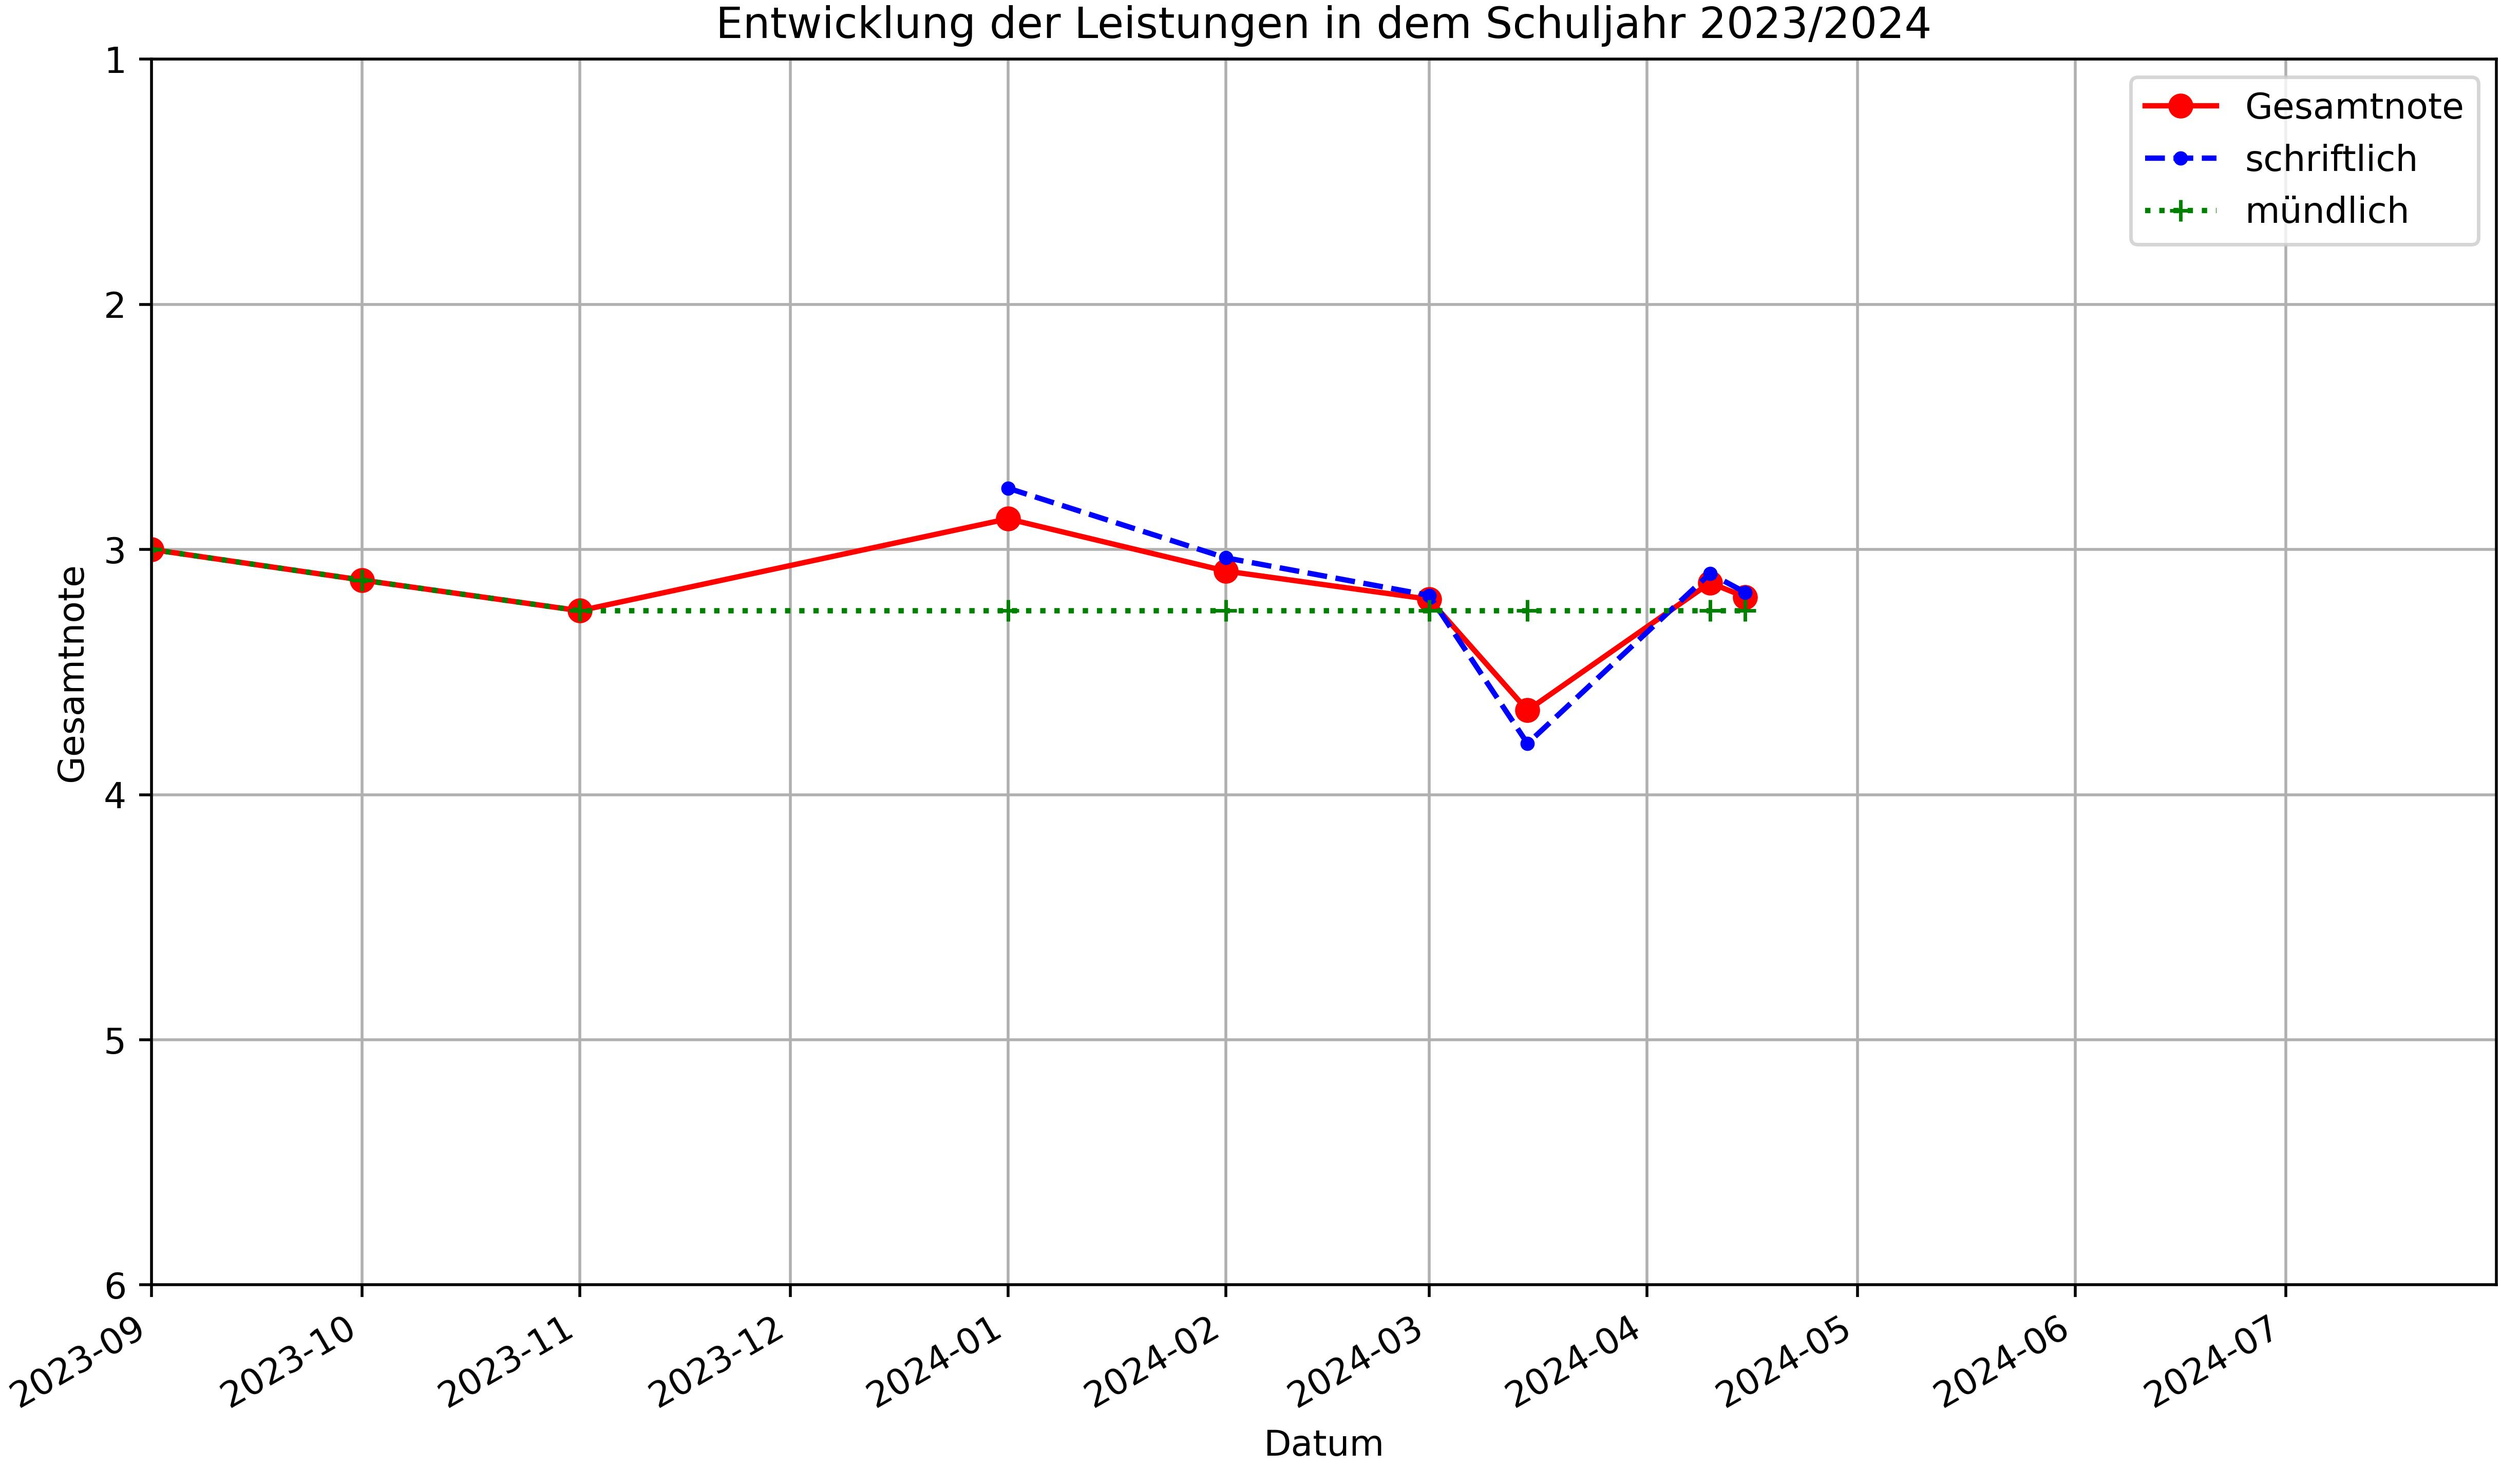
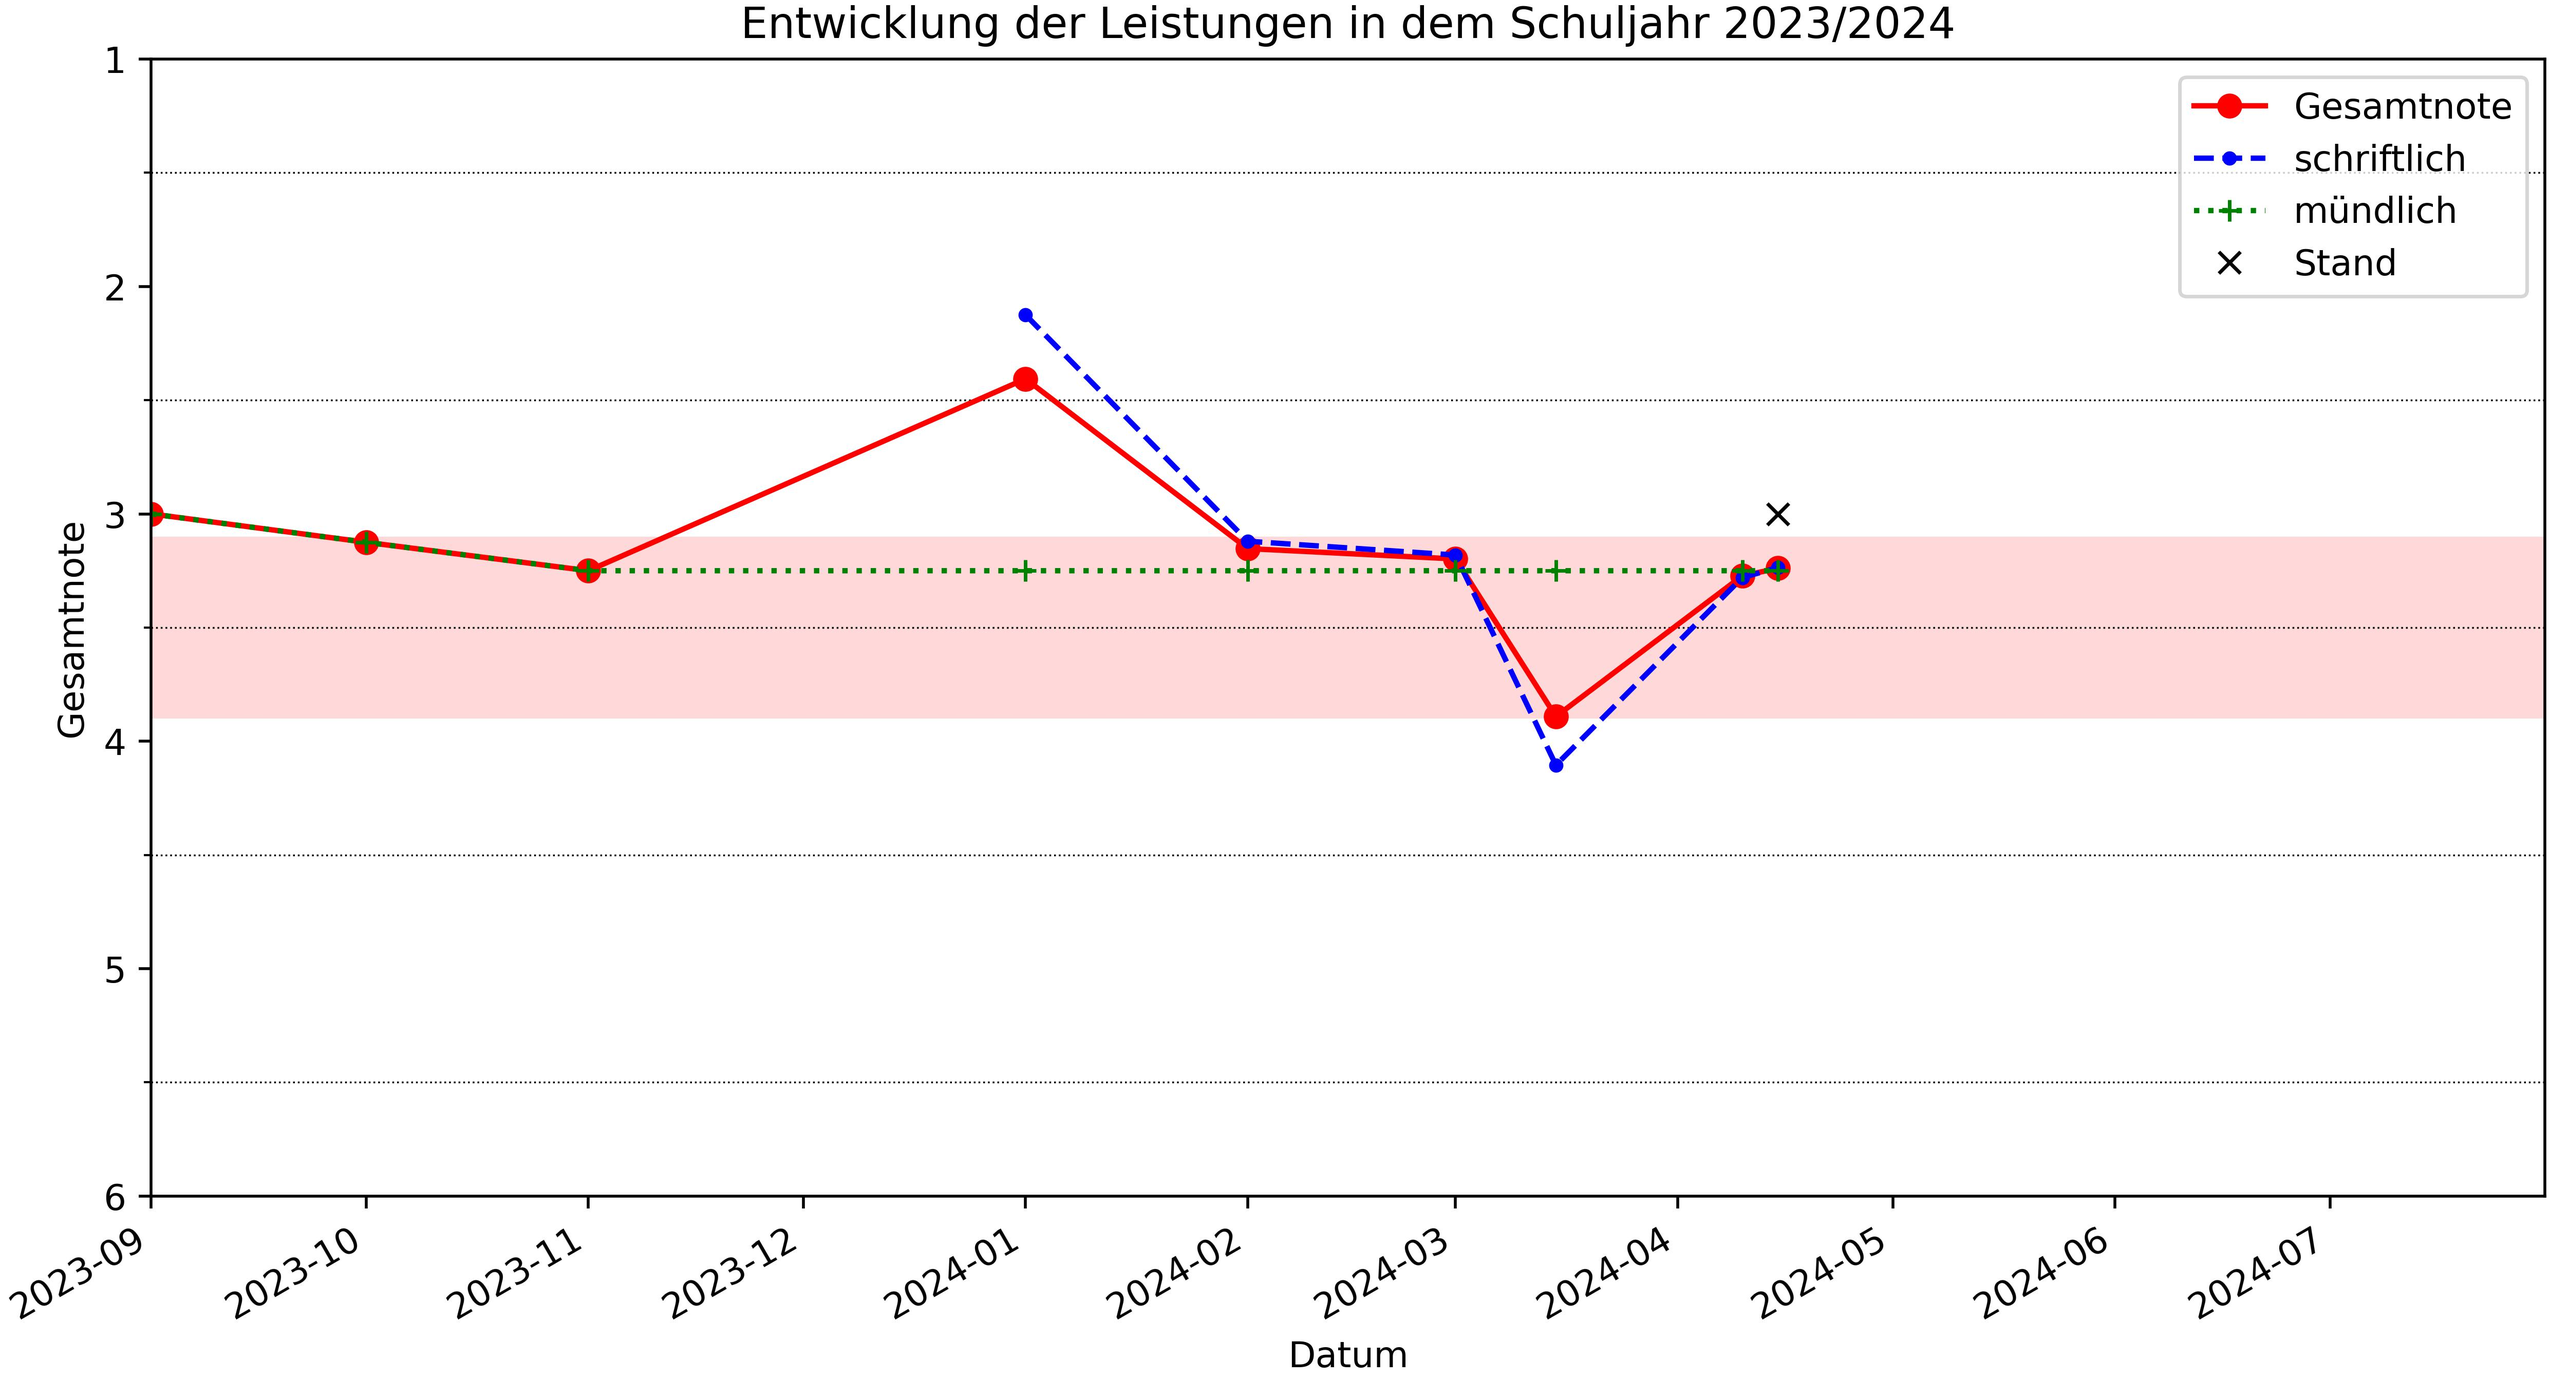
update python example

diff --git a/examples/beispiel.py b/examples/beispiel.py
@@ -6,7 +6,7 @@ Beispiel
 
 from notenbildung.notenbildung import *
 
-noten = Notenberechnung(w_s0=1, w_sm=3, system = 'N', v_enabled=True)
+noten = Notenberechnung(w_s0=1, w_sm=3, system = 'N', v_enabled=True, w_th = 0.4)
 noten.note_hinzufuegen(art='KA', date = '2024-04-10', note=2, status='fertig')
 noten.note_hinzufuegen(art='KA', date = '2024-04-15', note=2.5, status='fertig')
 noten.note_hinzufuegen(art='KA', date = '2024-03-01', note=3, status='fertig')
